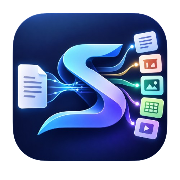
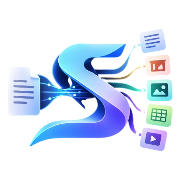
Use the new artwork, cropped, and enlarge the header brand
The supplied PNG carries a wide transparent margin: its artwork occupies
407x300 of a 500x500 canvas, so rendering it untouched wasted about 40% of the
box and made the mark look smaller than the space it took. Every derived asset
is now cropped to the artwork.

The header mark is sized by height with the width following the artwork's own
proportions, so it is never stretched, and the wordmark has grown to match. The
square favicon and touch icon centre the cropped artwork rather than inheriting
the original padding.

scripts/build-brand-mark.mjs regenerates all of it from public/icon.png.

diff --git a/components/brandMark.ts b/components/brandMark.ts
@@ -1,13 +1,19 @@
 /**
  * The SourceBridge mark, inlined as a data URI.
  *
- * Inlined rather than served from /public because endpoint-security software
- * on some Windows machines silently blocks binary subresource loads from
+ * Inlined rather than served from /public because endpoint-security software on
+ * some Windows machines silently blocks binary subresource loads from
  * localhost: the raw file fetches fine, but the <img> element never completes,
  * leaving the header wordless with no error. A data URI makes no request at
- * all, so the mark always renders. At 64px it costs a few KB.
+ * all, so the mark always renders.
  *
- * Regenerate from public/icon.png if the artwork changes.
+ * Cropped to the artwork: the source PNG carries a wide transparent margin,
+ * which would otherwise shrink the mark inside its own box.
+ *
+ * Regenerate with scripts/build-brand-mark.mjs if the artwork changes.
  */
 
[1 lines of base64/hex data omitted]
+/** Natural aspect ratio of the cropped artwork, for sizing without distortion. */
+export const BRAND_MARK_RATIO = 1.3567;
+
[1 lines of base64/hex data omitted]

diff --git a/components/Workspace.tsx b/components/Workspace.tsx
@@ -16,7 +16,7 @@ import { OutputPanel } from './OutputPanel';
 import { FactLedgerPanel } from './FactLedgerPanel';
 import { EvidenceDrawer } from './EvidenceDrawer';
 import { ThemeToggle } from './ThemeToggle';
-import { BRAND_MARK } from './brandMark';
+import { BRAND_MARK, BRAND_MARK_RATIO } from './brandMark';
 import { Badge, Button, Callout, Panel, Spinner, cx } from './ui';
 import {
   analyzeSource,
@@ -287,16 +287,24 @@ export function Workspace() {
             type="button"
             onClick={handleGoHome}
             aria-label="SourceBridge — return to the start"
-            className="flex items-center gap-2 rounded-md px-1 py-0.5 text-left transition-colors hover:bg-[var(--color-surface-sunken)]"
+            className="flex items-center gap-2.5 rounded-md px-1.5 py-1 text-left transition-colors hover:bg-[var(--color-surface-sunken)]"
           >
-            {/* eslint-disable-next-line @next/next/no-img-element -- an inlined
-                data URI: there is no request for next/image to optimise. */}
-            <img src={BRAND_MARK} alt="" width={28} height={28} className="h-7 w-7 rounded-md" />
+            {/* An inlined data URI, sized by height so the width follows the
+                artwork's own proportions and the mark is never stretched.
+                There is no request here for next/image to optimise. */}
+            {/* eslint-disable-next-line @next/next/no-img-element */}
+            <img
+              src={BRAND_MARK}
+              alt=""
+              height={40}
+              width={Math.round(40 * BRAND_MARK_RATIO)}
+              className="h-10 w-auto"
+            />
             <span>
-              <span className="block text-sm font-semibold leading-tight text-[var(--color-ink)]">
+              <span className="block text-lg font-semibold leading-tight tracking-tight text-[var(--color-ink)]">
                 SourceBridge
               </span>
-              <span className="block text-[10px] leading-tight text-[var(--color-ink-faint)]">
+              <span className="block text-[11px] leading-tight text-[var(--color-ink-faint)]">
                 One source. Multiple formats. Traceable facts.
               </span>
             </span>

diff --git a/README.md b/README.md
@@ -158,6 +158,7 @@ node scripts/theme-check.mjs <dir>          # capture both themes in a browser
 node scripts/render-deck.mjs <out.pptx>     # export a deck covering every slide layout
 node scripts/render-infographics.mjs <dir>  # render all four infographic layouts
 node scripts/render-video.mjs <out.mp4>     # render a video package to MP4 (uses TTS quota)
+node scripts/build-brand-mark.mjs <x0> <y0> <x1> <y1>   # regenerate icons after changing public/icon.png
 powershell -File scripts/pptx-to-png.ps1 <in.pptx> <dir>   # open a .pptx in PowerPoint, export PNGs
 ```
 
